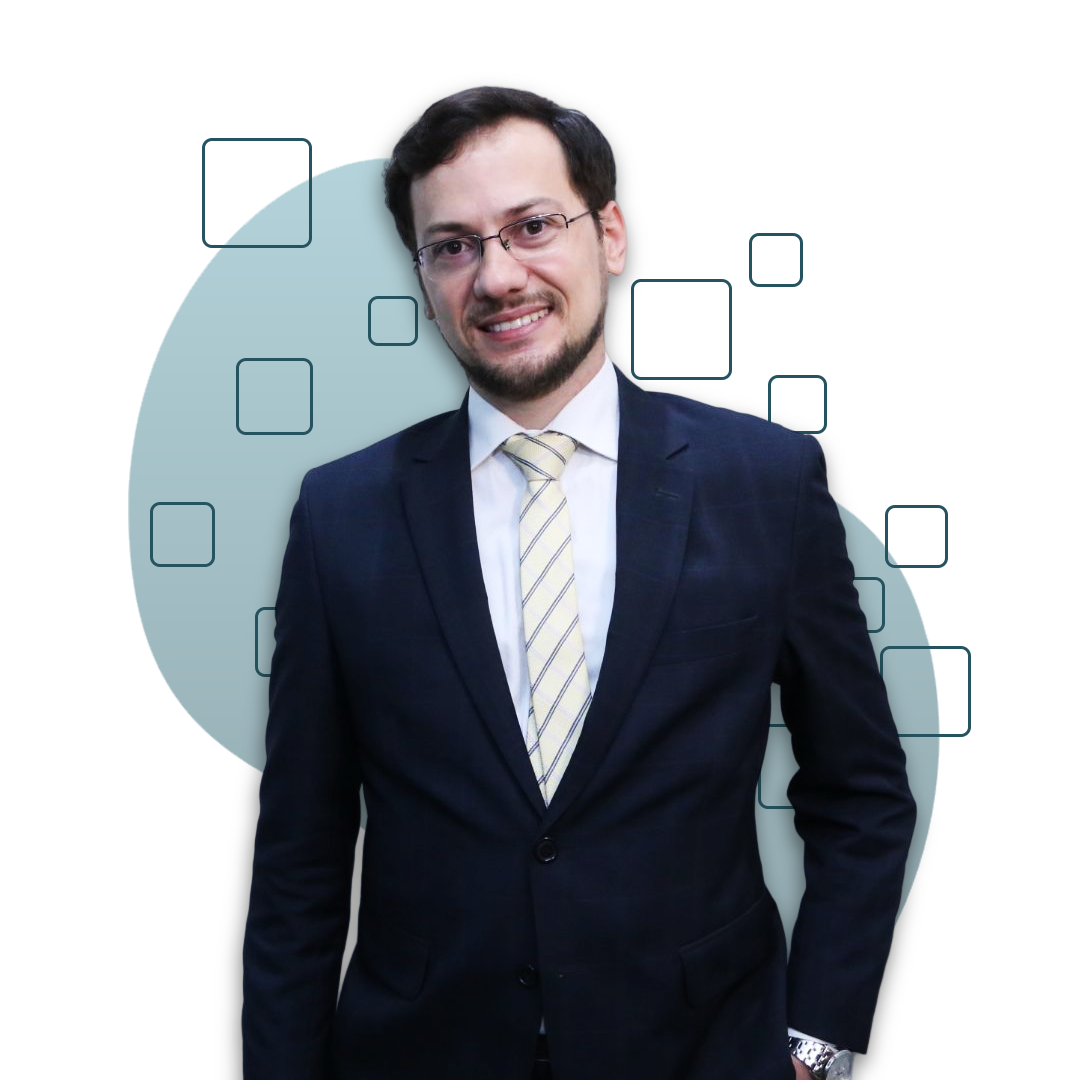
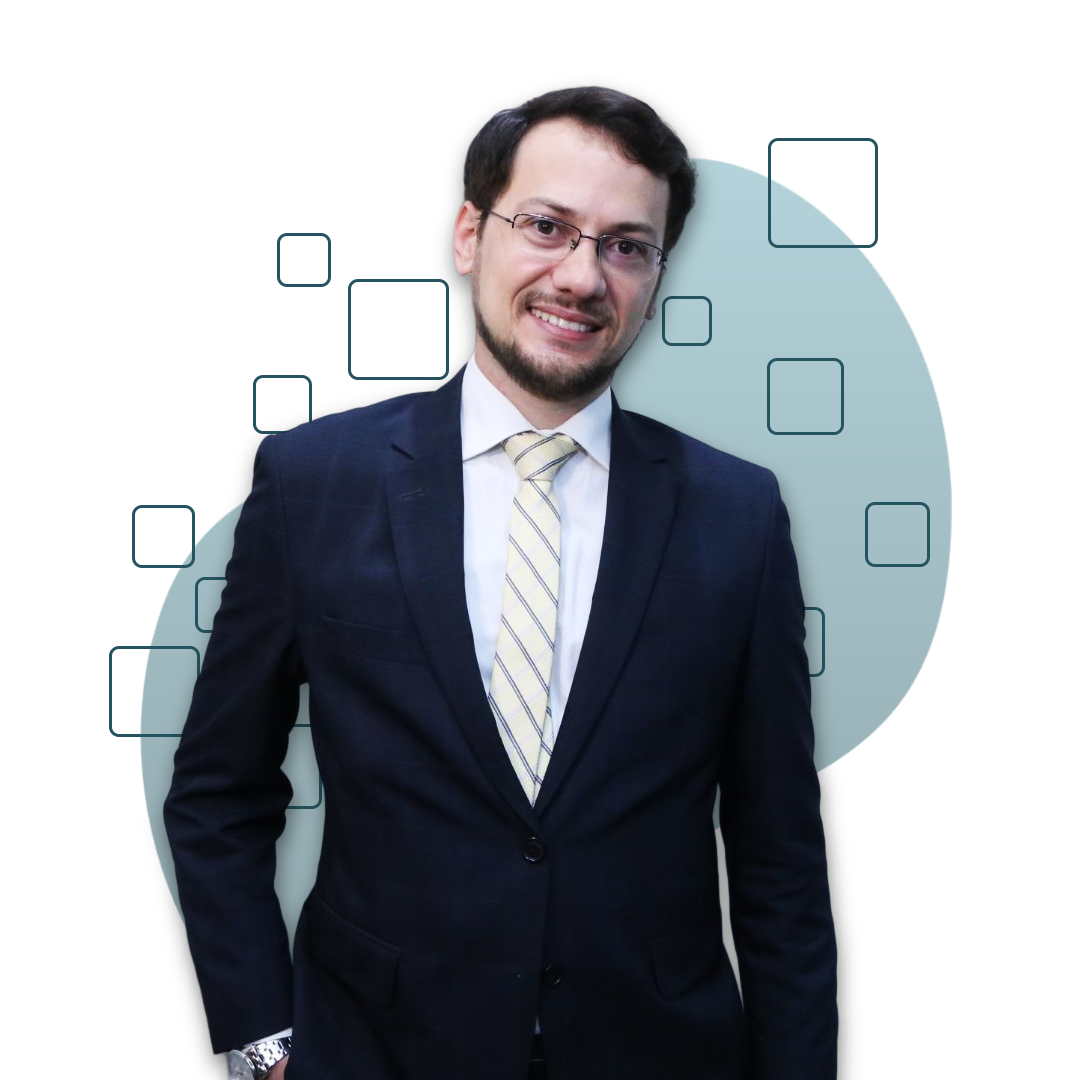
chatbot em desenvolvimento

diff --git a/trabalhista.html b/trabalhista.html
@@ -29,13 +29,14 @@
   </header>
   <section id="trabalhista">
     <div class="trabalhista-container">
+      <img src="/assets/img/ailton.png" width="540px" height="540px" alt="Foto do Doutor Ailton">
       <h1 class="font-xl c-v1">DR. AILTON NEIVA JR</h1>
       <div class="chatbot-container">
         <div class="chatbot">
 
         </div>
       </div>
-      <img src="/assets/img/ailton.png" width="540px" height="540px" alt="Foto do Doutor Ailton">
+
     </div>
   </section>
 

diff --git a/assets/css/conteudo.css b/assets/css/conteudo.css
@@ -32,14 +32,21 @@
 }
 
 .trabalhista-container img {
-  grid-column: 2;
+  grid-column: 1;
   grid-row: 1 / 3;
 }
 
 .trabalhista-container h1 {
-  place-self: end end;
+  place-self: end start;
 }
 
-.trabalhista-container p {
-  place-self: end;
+.chatbot {
+  position: fixed;
+  bottom: 20px;
+  right: 20px;
+  height: 350px;
+  width: 250px;
+  background-color: var(--v1);
+  border-radius: 5px;
+  box-shadow: 0px 2px 4px -3px rgba(0, 0, 0, 0.5);
 }
